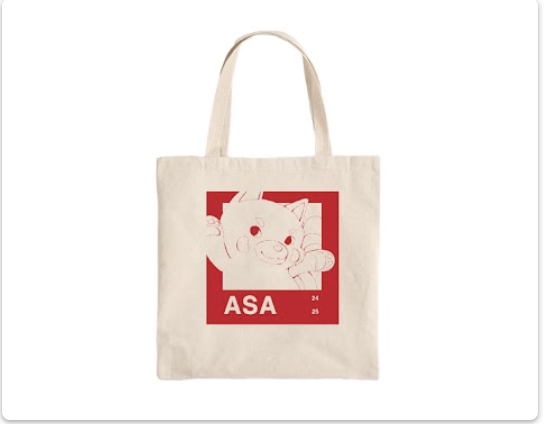
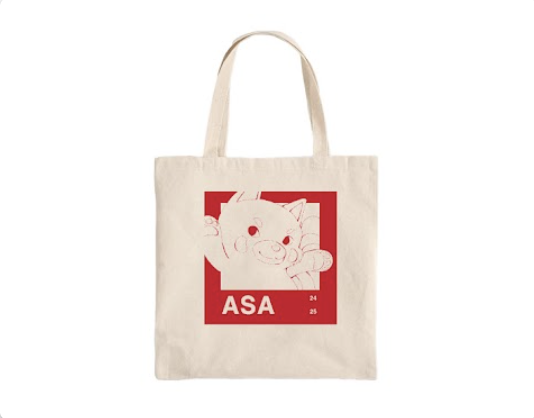
Make merch cards clickable and responsive
Add IDs to merch article elements and make images open the order Google Form in a new tab via onclick. Update layout and styles: .card_container now uses flex with centering, wrapping and gap; add hover scale/transition for merch cards; enforce consistent image sizing (100% width, 250px height, object-fit: contain). Also update tote-bag and stickers image assets.

diff --git a/itis3135/client-project/merch.html b/itis3135/client-project/merch.html
@@ -49,22 +49,22 @@
     <section class="card_container">
         <h3 class="visually-hidden">Merchandise section</h3>
 
-        <article class="card">
+        <article class="card" id="tote_bags">
             <h3><a href="https://docs.google.com/forms/d/e/1FAIpQLSeE_krw2rPZeYqUXxpmPDpSUicmxU1JOmaXEzbfZk4ehLHZvA/viewform">Tote Bags</a></h3>
             <p>ASA branded tote bags.</p>
-            <img src="images/tote-bag.png" alt="Tote Bag" class="merch_image">
+            <img src="images/tote-bag.png" alt="Tote Bag" class="merch_image" onclick="window.open('https://docs.google.com/forms/d/e/1FAIpQLSeE_krw2rPZeYqUXxpmPDpSUicmxU1JOmaXEzbfZk4ehLHZvA/viewform', '_blank')">
         </article>
 
-        <article class="card">
+        <article class="card" id="stickers">
             <h3><a href="https://docs.google.com/forms/d/e/1FAIpQLSeE_krw2rPZeYqUXxpmPDpSUicmxU1JOmaXEzbfZk4ehLHZvA/viewform">Stickers</a></h3>
             <p>ASA branded stickers.</p>
-            <img src="images/stickers.png" alt="Stickers" class="merch_image">
+            <img src="images/stickers.png" alt="Stickers" class="merch_image" onclick="window.open('https://docs.google.com/forms/d/e/1FAIpQLSeE_krw2rPZeYqUXxpmPDpSUicmxU1JOmaXEzbfZk4ehLHZvA/viewform', '_blank')">
         </article>
 
-        <article class="card">
+        <article class="card" id="keychains">
             <h3><a href="https://docs.google.com/forms/d/e/1FAIpQLSeE_krw2rPZeYqUXxpmPDpSUicmxU1JOmaXEzbfZk4ehLHZvA/viewform">Keychains</a></h3>
             <p>ASA branded keychains.</p>
-            <img src="images/keychains.png" alt="Keychains" class="merch_image">
+            <img src="images/keychains.png" alt="Keychains" class="merch_image" onclick="window.open('https://docs.google.com/forms/d/e/1FAIpQLSeE_krw2rPZeYqUXxpmPDpSUicmxU1JOmaXEzbfZk4ehLHZvA/viewform', '_blank')">
         </article>
     </section>
 

diff --git a/itis3135/client-project/styles_sheets/styles.css b/itis3135/client-project/styles_sheets/styles.css
@@ -143,6 +143,10 @@ main {
 .card_container {
     text-align: center;
     margin-top: 25px;
+    display: flex;
+    justify-content: center;
+    flex-wrap: wrap;
+    gap: 20px;
 }
 
 .card {
@@ -167,6 +171,26 @@ main {
 }
 .card a:hover {
     text-decoration: underline;
+}
+.card_container #tote_bags:hover, #stickers:hover, #keychains:hover {
+    transform: scale(1.05);
+    transition: transform 0.3s ease;
+    cursor: pointer;
+}
+.card #tote_bags img {
+    width: 100%;
+    height: 250px;
+    object-fit: contain;
+}
+.card #stickers img {
+    width: 100%;
+    height: 250px;
+    object-fit: contain;
+}
+.card #keychains img {
+    width: 100%;
+    height: 250px;
+    object-fit: contain;
 }
 
 .gallery_placeholder {
